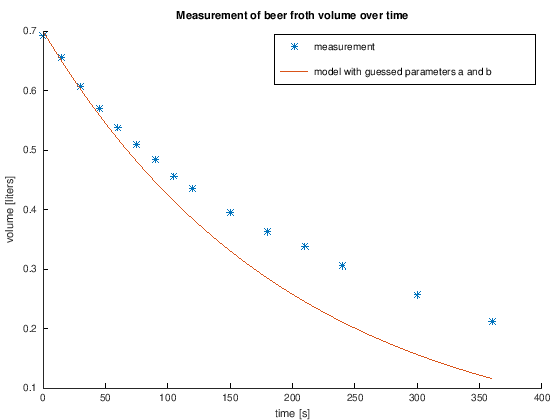
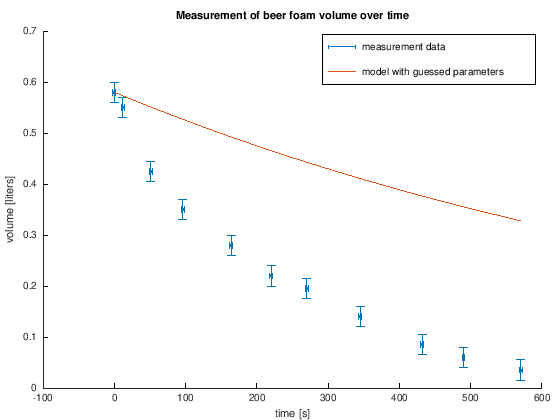
add own measurement + minor fixes

diff --git a/_build/04_nichtlineare_gleichungen/test_jacobian.m b/_build/04_nichtlineare_gleichungen/test_jacobian.m
@@ -1,0 +1,74 @@
+function test_suite=test_jacobian
+% initialize unit tets
+    try
+        test_functions=localfunctions();
+    catch
+    end
+    initTestSuite;
+end
+    
+function test_for_correctsize
+% test if Jacobian has correct size
+    n = randi(10);
+    m = randi(10);
+    J = jacobian(@(x) ones(m,1),zeros(n,1));
+    assertEqual(size(J), [m,n]);
+end
+
+function test_jacobian_of_const
+% test if Jacobian of contant function is zero
+    n = randi(10);
+    m = randi(10);
+    f = rand()*1e3;
+    x = rand(n,1)*1e3;
+    J = jacobian(@(x) f*ones(m,1),x);
+    assertElementsAlmostEqual(J, zeros(m,n));
+end
+
+function test_x
+% test if jacobian(x) = eye
+    n = randi(10);
+    f = @(x) x;
+    x = rand(n,1)*1e3;
+    assertElementsAlmostEqual(jacobian(f,x), eye(n));
+end
+
+function test_exp
+% test if jacobian(exp(x)) = exp(x)
+    f = @exp;
+    x = rand()*2-1;
+    assertElementsAlmostEqual(jacobian(f,x),f(x),'relative',1e-3);
+end
+
+function test_log
+% test if jacobian(log(x)) = 1/x;
+    f = @log;
+    x = rand()*2-1;
+    if abs(x) < 1e-3
+        x = 1e-3*sign(x);
+    end
+    assertElementsAlmostEqual(jacobian(f,x),1/x,'relative',1e-3);
+end
+
+function test_sin
+% test if jacobian(sin(x)) = cos(x);
+    x = rand()*2*pi;
+    assertElementsAlmostEqual(jacobian(@sin,x),cos(x),'relative',1e-5);
+end
+
+
+function test_cos
+% test if jacobian(cos(x)) = -sin(x);
+    x = rand()*2*pi;
+    assertElementsAlmostEqual(jacobian(@cos,x),-sin(x),'relative',1e-5);
+end
+
+function test_monomial
+% test if jacobian(x^m) = m*x^(m-1)
+    x = rand()*2-1;
+    for m = -5:5
+        f = @(x) x^m;
+        fp = @(x) m*x^(m-1);
+        assertElementsAlmostEqual(jacobian(f,x),fp(x),'relative',1e-3);
+    end
+end

diff --git a/_build/04_nichtlineare_gleichungen/exercises_00_bierschaum.md b/_build/04_nichtlineare_gleichungen/exercises_00_bierschaum.md
@@ -22,25 +22,40 @@ Wenn wir ein Weizenbier länger stehen lassen, baut sich die schöne Schaumkrone
 
 ### Experimenteller Aufbau
 
-To Do (Bilder Experiment, Messwerte, idealerweise in der VL durchgeführt, Scatterplot V über t der Messergebnisse). 
+Messen wir es einfach nach! Wir benutzen ein Messbecher, Wasser und einen wasserfesten Marker um ein Weizenglas mit Eichstrichen zu verwesen. Wir schütten ein Bier ein, so dass sehr viel Schaum entsteht und markieren uns - so gut es eben geht - den unteren und oberen Stand des Schaumes zu unterschiedlichen Zeitpunkten. Die Differenz ist dann das Bierschaumvolumen zum jeweiligen Zeitpunkt.
 
 | $t$ [s] | Oberer Messwert [$l$] | Unterer Messwert [$l$] | $V$ [$l$] |
 | -- | -- | -- | -- |
-| 0 | 0.5 | 0.15 | 0.35 |
-| 12 | 0.45 | 0.2 | 0.25 |
-| 20 | 0.425 | 0.225 | 0.2 |
-| 30 | 0.35 | 0.25 | 0.1 |
+| 0  | 0.020 | 0.600 | 0.580 |
+| 12 | 0.050 | 0.600 | 0.550 |
+| 51 | 0.125 | 0.550 | 0.425  |
+| 96 | 0.150 | 0.500 | 0.350  |
+| 164 | 0.170 | 0.450 | 0.280  |
+| 220 | 0.180 | 0.400 | 0.220  |
+| 270 | 0.180 | 0.375 | 0.195  |
+| 345 | 0.185 | 0.325 | 0.140  |
+| 432 | 0.190 | 0.275 | 0.085  |
+| 490 | 0.190 | 0.250 | 0.060  |
+| 570 | 0.190 | 0.225 | 0.035  |
 
 Die Genauigkeit der Messung sei mal dahin gestellt, es reicht zumindest aus um einen Trend zu erkennen: Der Schaum baut sich anfänglich schneller ab als später, wenn nicht mehr viel Schaum da ist.
 
 <div markdown="1" class="cell code_cell">
 <div class="input_area hidecode" markdown="1">
 ```matlab
-% measurements taken from Leike (https://www.tf.uni-kiel.de/matwis/amat/iss/kap_2/articles/beer_article.pdf) for now 
-t = [0 15 30 45 60 75 90 105 120 150 180 210 240 300 360];
-V = [17 16.1 14.9 14 13.2 12.5 11.9 11.2 10.7 9.7 8.9 8.3 7.5 6.3 5.2]*0.001*pi*7.2^2/4;
-plot(t,V,'*')
-title('Measurement of beer froth volume over time')
+% measurement results
+
+t = [0 12 51 96 164 220 270 345 432 490 570];
+U = [0.02 0.05 0.125 0.15 0.17 0.18 0.18 0.185 0.19 0.19 0.19];
+O = [0.6 0.6 0.55 0.5 0.45 0.4 0.375 0.325 0.275 0.25 0.225];
+V = O-U;
+
+% approximate measurement errors:
+t_err = 2;
+V_err = 0.02;
+
+errorbar(t, V, t_err, V_err, '~>.')
+title('Measurement of beer foam volume over time')
 xlabel('time [s]')
 ylabel('volume [liters]')
 ```
@@ -74,32 +89,27 @@ stellen wir fest, dass unser Ansatz eine valide Lösung der Differentialgleichun
 
 $$ V(t) = b \cdot e^{a \cdot t}. $$
 
-Ok, nun haben wir einerseits Messwerte und andererseits ein mathematisches Modell mit unbekannten Parametern $a$ und $b$. $b$ muss offensichtlich der y-Achsenabschnitt sein, da $V(0)=b \cdot e^0 = b$, den kennen wir aus den Messwerten. Aber was, wenn ausgerechnet die erste Messung mit Messfehlern behaftet ist? Abgesehen, davon haben wir auch dann noch Schwierigkeiten händisch die Zerfallsrate $a$ zu raten. Für $a=-0.005 \frac{1}{\text{s}}$ und $b=0.7$ $l$ ergibt sich folgender Verlauf.
+Ok, nun haben wir einerseits Messwerte und andererseits ein mathematisches Modell mit unbekannten Parametern $a$ und $b$. $b$ muss offensichtlich der y-Achsenabschnitt sein, da $V(0)=b \cdot e^0 = b$, den kennen wir aus den Messwerten. Aber was, wenn ausgerechnet die erste Messung mit Messfehlern behaftet ist? Abgesehen, davon haben wir auch dann noch Schwierigkeiten händisch die Zerfallsrate $a$ zu raten. Für $a=-0.001 \frac{1}{\text{s}}$ und $b=0.58$ $l$ ergibt sich folgender Verlauf.
 
 <div markdown="1" class="cell code_cell">
 <div class="input_area hidecode" markdown="1">
 ```matlab
-% measurements taken from Leike (https://www.tf.uni-kiel.de/matwis/amat/iss/kap_2/articles/beer_article.pdf) for now 
-
-t = [0 15 30 45 60 75 90 105 120 150 180 210 240 300 360]; % time in seconds
-V = [17 16.1 14.9 14 13.2 12.5 11.9 11.2 10.7 9.7 8.9 8.3 7.5 6.3 5.2]*0.001*pi*7.2^2/4; % Volume [liters] = measured height in cm times 0.001*pi*(diameter of cylincrical glass in cm)^2
-
 hold on
 
 % plot measurement
-h1 = plot(t,V,'*','DisplayName', 'measurement');
-title('Measurement of beer froth volume over time')
+h_meas = errorbar(t, V, t_err, V_err, '~>.');
+title('Measurement of beer foam volume over time')
 xlabel('time [s]')
 ylabel('volume [liters]')
 
 % plot model
-a = -0.005;
-b = 0.7;
+a = -0.001;
+b = 0.58;
 tfine = linspace(t(1),t(end),100);
 yfine = b*exp(a*tfine);
-plot(tfine, yfine,'DisplayName','model with guessed parameters a and b')
+h_model = plot(tfine, yfine);
 
-legend toggle
+legend([h_meas, h_model],{'measurement data', 'model with guessed parameters'})
 ```
 </div>
 
@@ -113,17 +123,19 @@ legend toggle
 </div>
 </div>
 
- Wir können aber immer noch keine quantifizierbare Aussage darüber treffen, wie schnell das Bier sich abbaut. Wie können wir jetzt $a$ und $b$ so bestimmen, dass das Modell zu unseren Messwerten passt? Wenn wir das wüssten, könnten wir auf Grundlage der Modellgleichung Vorhersagen treffen.
+ Wir können immer noch keine quantifizierbare Aussage darüber treffen, wie schnell das Bier sich abbaut. 
+ 
+Wie können wir $a$ und $b$ so bestimmen, dass das Modell zu unseren Messwerten passt? Wenn wir das wüssten, könnten wir auf Grundlage der Modellgleichung Vorhersagen treffen.
 
 ## Die Methode der kleinsten Quadrate
 
-Die Methode der kleinsten Quadrate ist eine weit verbreitete Methode zur Modellkalibrierung. Mit ihr können Sie noch unbekannte Parameter $p_1,...,p_n$ eines Modells $y = f(p_1,...,p_n,t)$ so anpassen, dass es vorher ermittelte experimentelle Daten $(t_1,y_1),...,(t_m, y_m)$ möglichst gut wiederspiegelt.
+Die Methode der kleinsten Quadrate ist eine weit verbreitete Methode zur Modellkalibrierung. Mit ihr können noch unbekannte Parameter $p_1,...,p_n$ eines Modells $y = f(p_1,...,p_n,t)$ so angepasst werden, dass es vorher ermittelte experimentelle Daten $(t_1,y_1),...,(t_m, y_m)$ möglichst gut wiederspiegelt.
 
 ### Die Grundidee
 
-Sie wollen die Parameter also so bestimmen, dass für alle Messpunkte $t_i$ die Differenz $y_i - f(p_1,...,p_n,t_i)$ betragsmäßig klein wird. Es handelt sich also um eine Minimierungsaufgabe!
+Wir formulieren ein Minimierungsproblem: Für alle Messpunkte $t_i$ soll die Differenz $y_i - f(p_1,...,p_n,t_i)$ betragsmäßig klein werden.
 
-Für die Formulierung stehen Ihnen verschiedene Ansätze zur Verfügung. Sie könnten einfach den Mittelwert der betragsmäßigen Differenzen über alle Messpunkte minimieren:
+Für die Formulierung stehen verschiedene Ansätze zur Verfügung. Man könnte einfach den Mittelwert der betragsmäßigen Differenzen über alle Messpunkte minimieren:
 
 $$ \min_{p_1,...,p_n} G(p_1,...,p_n) = \frac{1}{m} \sum_{i=1}^m |y_i - f(p_1,...,p_n,t_i)|  $$
 
@@ -131,7 +143,9 @@ Wenn die Funktion $G$ minimal werden soll, muss die Ableitung von $G$ nach allen
 
 $$ \frac{\partial G}{\partial p_1} = ... = \frac{\partial G}{\partial p_n} = 0. $$
 
-Spätestens jetzt haben wir ein Problem: Wir müssen die Betragsfunktion, die in $G$ verwendet wird ableiten. Als Alternative nehmen wir nicht den Betrag der Differenzen, sondern einfach das Quadrat. Auf diese Weise werden positive sowie negative Differenzen gleich berücksichtigt. Es hat auch noch den angenehmen Nebeneffekt, dass große Abweichungen zwischen Modell und Messung größer bestraft werden als kleine Abweichungen:
+Spätestens jetzt haben wir ein Problem: Wir müssen die Betragsfunktion, die in $G$ verwendet wird ableiten. 
+
+Als Alternative nehmen wir nicht den Betrag der Differenzen, sondern einfach das Quadrat. Auf diese Weise werden positive sowie negative Differenzen gleich berücksichtigt. Es hat auch noch den angenehmen Nebeneffekt, dass große Abweichungen zwischen Modell und Messung größer bestraft werden als kleine Abweichungen:
 
 $$ \min_{p_1,...,p_n} G(p_1,...,p_n) = \frac{1}{m} \sum_{i=1}^m (y_i - f(p_1,...,p_n,t_i))^2  $$
 
@@ -187,7 +201,7 @@ function e = F(p,t,V)
 % define the nonlinear system of equations that need to be solved within the least squares fit
 % of the beer froth experiment
 %
-% p = (a,b) is a vector of the model parameters
+% p = [a,b]' is a vector of the model parameters
 %
 % t and V are vectors containing the experimental data
 
@@ -207,7 +221,7 @@ Created file '/home/jan/shares/Modellbildung-und-Simulation/content/04_nichtline
 
 ## Das Newton-Verfahren
 
-Aus der Vorlesung kennen Sie das Newton-Verfahren zum Lösen nichtlinearer Gleichungssysteme. Angefangen mit einem Startwert $\mathbf{p}^{(0)}$ muss in jeder Iteration muss ein lineares Gleichungssystem gelöst werden:
+Aus der Vorlesung kennen Sie das Newton-Verfahren zum Lösen nichtlinearer Gleichungssysteme. Angefangen mit einem Startwert $\mathbf{p}^{(0)}$ muss in jeder Iteration ein lineares Gleichungssystem gelöst werden:
 
 $$
 \begin{align}
@@ -318,9 +332,19 @@ moxunit_runtests test_newton
  - Erstellen Sie ein Plot mit den Messwerten, sowie der kalibrierten Modellfunktion $V(t) = b \cdot e^{a \cdot t}$.
  - Wie lautet die Halbwertzeit des Bierschaumes?
 
+<div markdown="1" class="cell code_cell">
+<div class="input_area" markdown="1">
+```matlab
+% SPACE FOR SOLUTION
+
+```
+</div>
+
+</div>
+
 ## Optimierungsverfahren
 
-Die Methode der kleinsten Quadrate ist eigentlich ein Minimerungsproblem. Wir haben gesehen, dass sich das Minimum einer Funktion $G: \mathbb{R}^n \to \mathbb{R}$ bestimmen lässt, in dem das nichtlineare Gleichungssystem 
+Grundlage der Methode der kleinsten Quadrate ist ein Minimierungsproblem. Wir haben gesehen, dass sich das Minimum einer Funktion $G: \mathbb{R}^n \to \mathbb{R}$ bestimmen lässt, in dem das nichtlineare Gleichungssystem 
 
 $$
   \boldsymbol{0} = J_G(\mathbf{p})^T = 
@@ -358,8 +382,38 @@ Zusammenfassend kann ein Minimierungsproblem also gelöst werden, indem es auf e
 Schreiben Sie eine neue Funktion `minimize(func,x0,tol,maxit)` auf Grundlage ihrer Implementierung für das Newtonverfahren, die eine beliebige Funktion `func`$: \mathbb{R}^n \to \mathbb{R}$ minimiert. Verwenden Sie ihre Funktion `jacobian` um die Hessematrix sowie die rechte Seite in jedem Funktionsaufruf zu konstruieren.
 
  - Lösen Sie das ursprüngliche Minimierungsproblem mit ihrer neuen Funktion und vergleichen Sie das Ergebnis mit ihrem Ergebnis aus Aufgabe 3 sowie dem Resultat der Matlab-Funktion `fminsearch`.
+ - Wo sind die Grenzen ihres Algorithmus? Gibt es mögliche Fehlerquelen, die Nutzer ihrer Funktion beachten sollten?
+
+<div markdown="1" class="cell code_cell">
+<div class="input_area" markdown="1">
+```matlab
+%%file minimize.m
+
+%SPACE FOR SOLUTION
+```
+</div>
+
+<div class="output_wrapper" markdown="1">
+<div class="output_subarea" markdown="1">
+{:.output_stream}
+```
+Created file '/mnt/c/Users/jan/Documents/Vorlesungen/Modellbildung-und-Simulation/content/04_nichtlineare_gleichungen/minimize.m'.
+```
+</div>
+</div>
+</div>
+
+<div markdown="1" class="cell code_cell">
+<div class="input_area" markdown="1">
+```matlab
+% SPACE FOR SCRIPT SOLUTION
+
+```
+</div>
+
+</div>
 
 ## Literatur
 
- - Leike, A. (2002). Demonstration of the Exponential Decay Law Using Beer Froth; *European Journal of Physics, 23, 21-26.* [[Link]](https://www.tf.uni-kiel.de/matwis/amat/iss/kap_2/articles/beer_article.pdf)
- - Theißen, H. (2009). Mythos Bierschaumzerfall - Ein Analogon für den radioaktiven Zerfall?; *PhyDid A - Physik und Didaktik in Schule und Hochschule, 2(9), 49 - 57.* [[Link]](http://www.phydid.de/index.php/phydid/article/download/87/85)
+ - Leike, A. (2002). [Demonstration of the Exponential Decay Law Using Beer Froth](https://www.tf.uni-kiel.de/matwis/amat/iss/kap_2/articles/beer_article.pdf); *European Journal of Physics, 23, 21-26.*
+ - Theißen, H. (2009). [Mythos Bierschaumzerfall - Ein Analogon für den radioaktiven Zerfall?](http://www.phydid.de/index.php/phydid/article/download/87/85); *PhyDid A - Physik und Didaktik in Schule und Hochschule, 2(9), 49 - 57.*
